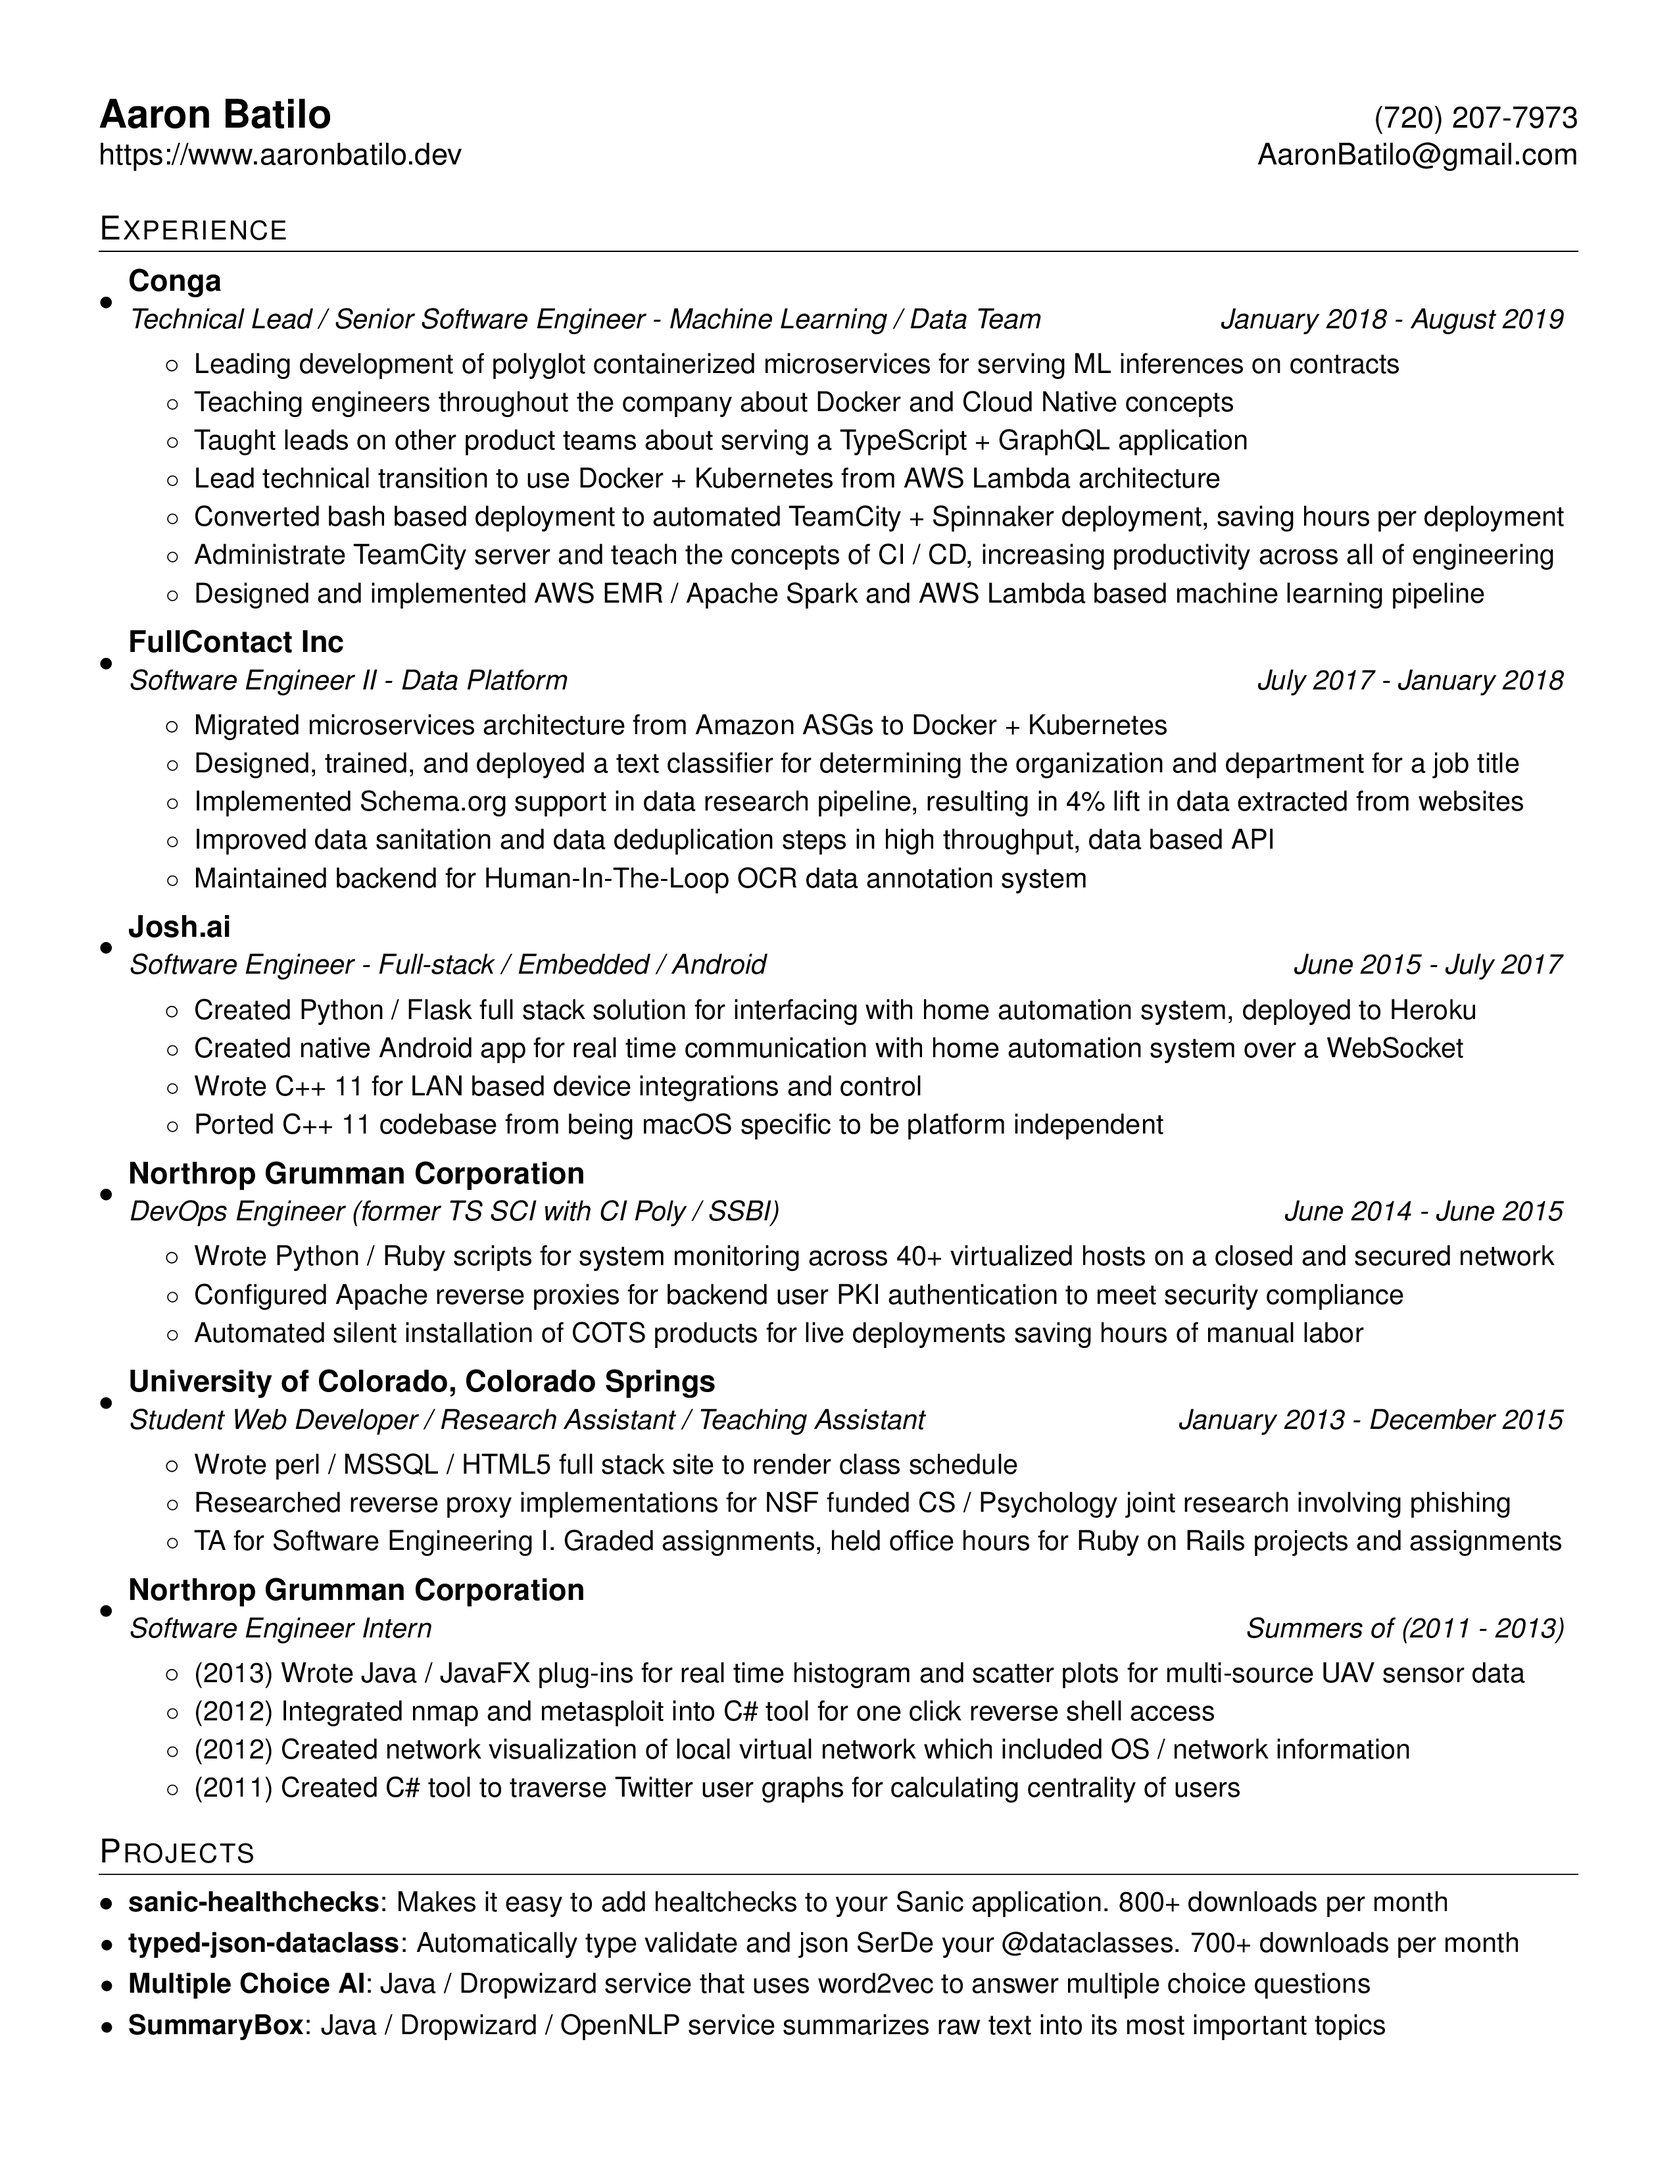
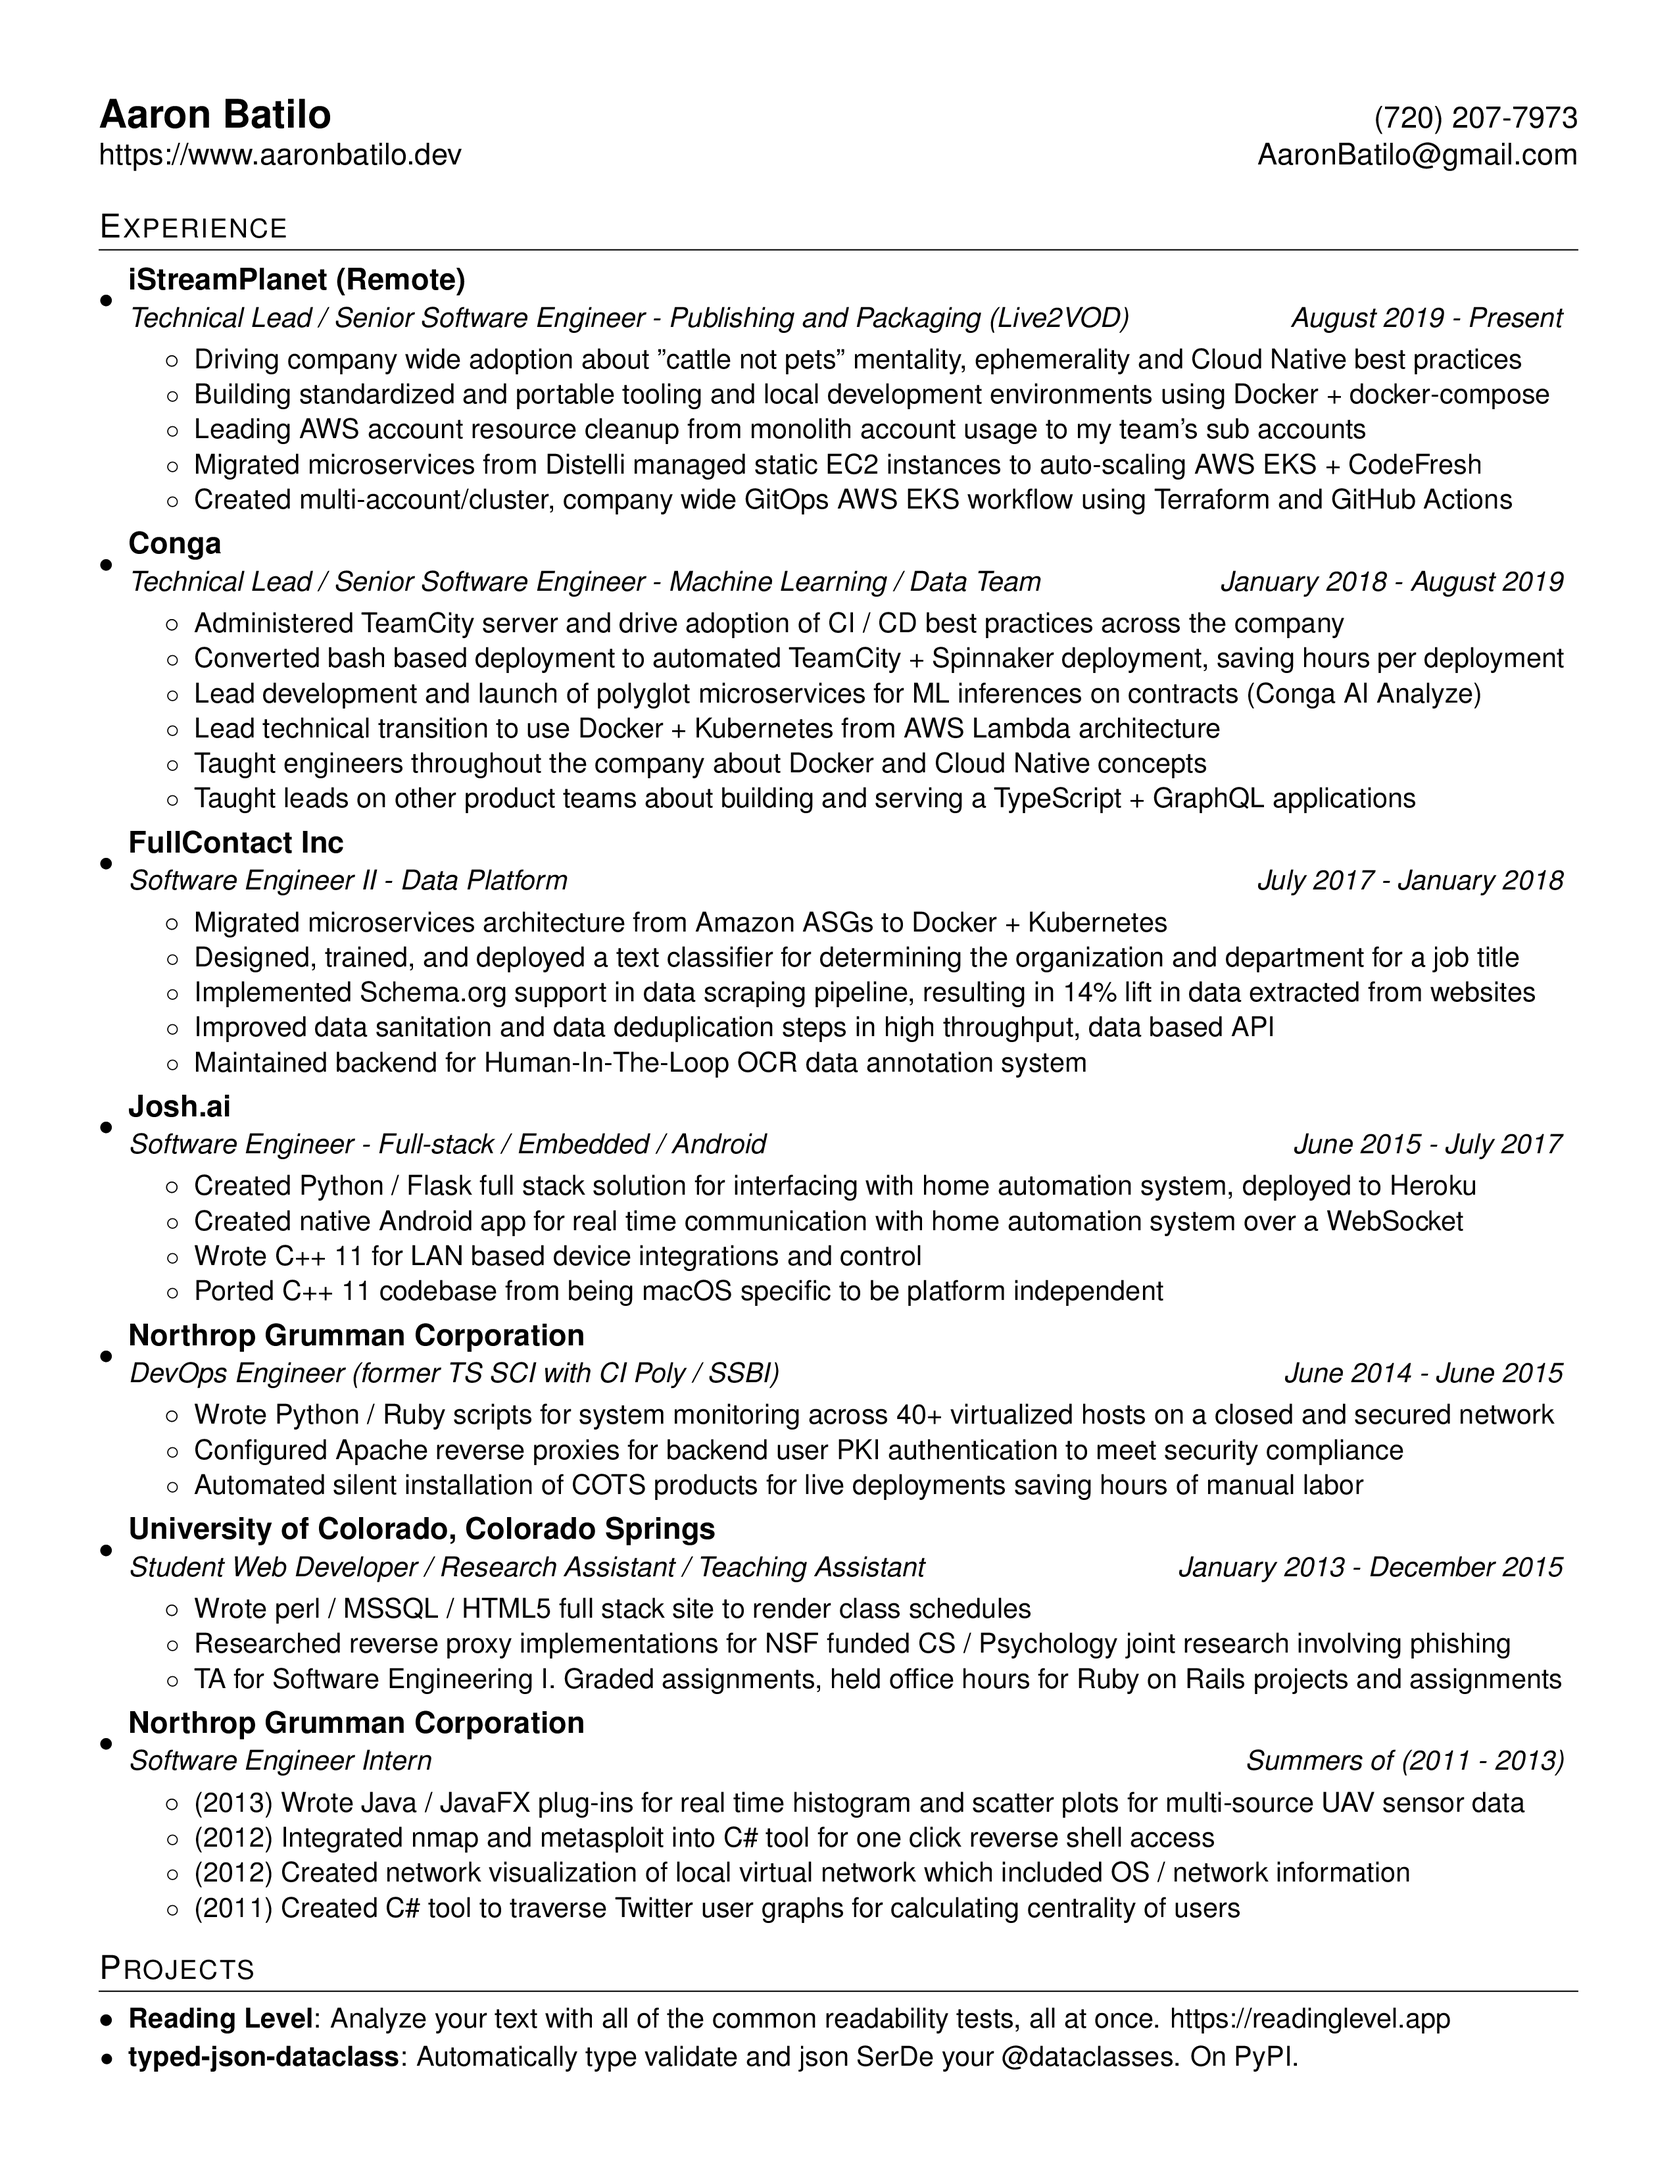
Update for Oct 2019

Changed region(s): [[0.062, 0.0936, 0.9294, 0.9676]]

diff --git a/resume.tex b/resume.tex
@@ -92,17 +92,30 @@
   \resumeSubHeadingListStart
 
     \resumeSubheading
+      {iStreamPlanet (Remote)}
+      {Technical Lead / Senior Software Engineer - Publishing and Packaging
+        (Live2VOD)}{August 2019 - Present}
+      \resumeItemListStart
+        \resumeItemNoBold {Driving company wide adoption about "cattle not pets" mentality, ephemerality and Cloud Native best practices}
+        \resumeItemNoBold {Building standardized and portable tooling and local development environments using Docker + docker-compose}
+        \resumeItemNoBold {Leading AWS account resource cleanup from monolith account
+          usage to my team's sub accounts}
+        \resumeItemNoBold {Migrated microservices from Distelli managed static EC2
+          instances to auto-scaling AWS EKS + CodeFresh}
+        \resumeItemNoBold {Created multi-account/cluster, company wide GitOps AWS EKS workflow using Terraform and GitHub Actions}
+      \resumeItemListEnd
+
+    \resumeSubheading
       {Conga}
       {Technical Lead / Senior Software Engineer - Machine Learning / Data Team}{January
         2018 - August 2019}
       \resumeItemListStart
-        \resumeItemNoBold {Leading development of polyglot containerized microservices for serving ML inferences on contracts}
-        \resumeItemNoBold {Teaching engineers throughout the company about Docker and Cloud Native concepts}
-        \resumeItemNoBold {Taught leads on other product teams about serving a TypeScript + GraphQL application}
-        \resumeItemNoBold {Lead technical transition to use Docker + Kubernetes from AWS Lambda architecture}
+        \resumeItemNoBold {Administered TeamCity server and drive adoption of CI / CD best practices across the company}
         \resumeItemNoBold {Converted bash based deployment to automated TeamCity + Spinnaker deployment, saving hours per deployment}
-        \resumeItemNoBold {Administrate TeamCity server and teach the concepts of CI / CD, increasing productivity across all of engineering}
-        \resumeItemNoBold {Designed and implemented AWS EMR / Apache Spark and AWS Lambda based machine learning pipeline}
+        \resumeItemNoBold {Lead development and launch of polyglot microservices for ML inferences on contracts (Conga AI Analyze)}
+        \resumeItemNoBold {Lead technical transition to use Docker + Kubernetes from AWS Lambda architecture}
+        \resumeItemNoBold {Taught engineers throughout the company about Docker and Cloud Native concepts}
+        \resumeItemNoBold {Taught leads on other product teams about building and serving a TypeScript + GraphQL applications}
       \resumeItemListEnd
 
     \resumeSubheading
@@ -113,7 +126,8 @@
         to Docker + Kubernetes}
         \resumeItemNoBold {Designed, trained, and deployed a text classifier for determining the
         organization and department for a job title}
-        \resumeItemNoBold {Implemented Schema.org support in data research pipeline, resulting in 4\% lift in data extracted from websites}
+        \resumeItemNoBold {Implemented Schema.org support in data scraping pipeline,
+          resulting in 14\% lift in data extracted from websites}
         \resumeItemNoBold {Improved data sanitation and data deduplication steps in high throughput, data based API}
         \resumeItemNoBold {Maintained backend for Human-In-The-Loop OCR data annotation system}
       \resumeItemListEnd
@@ -150,7 +164,7 @@
       2013 - December 2015}
       \resumeItemListStart
         \resumeItemNoBold{Wrote perl / MSSQL / HTML5 full stack site to render
-        class schedule}
+        class schedules}
         \resumeItemNoBold{Researched reverse proxy implementations for NSF
         funded CS / Psychology joint research involving phishing}
         \resumeItemNoBold{TA for Software Engineering I. Graded assignments,
@@ -174,15 +188,10 @@
 %-----------PROJECTS-----------------
 \section{Projects}
   \resumeSubHeadingListStart
-  \resumeSubItem{sanic-healthchecks}
-    {Makes it easy to add healtchecks to your Sanic application.}
-  \resumeSubItem{typed-json-dataclass}
-    {Automatically type validate and json SerDe your @dataclasses.}
-  \resumeSubItem{Multiple Choice AI}
-    {Java / Dropwizard service that uses word2vec to answer
-    multiple choice questions}
-  \resumeSubItem{SummaryBox}
-    {Java / Dropwizard / OpenNLP service summarizes raw text into its most
-    important topics}
+  \resumeSubItem{\href{https://www.readinglevel.app}{Reading Level}}
+    {Analyze your text with all of the common readability tests, all at once.
+      \href{https://www.readinglevel.app}{https://readinglevel.app}}
+  \resumeSubItem{\href{https://pypi.org/project/typed-json-dataclass/1.2.1/}{typed-json-dataclass}}
+    {Automatically type validate and json SerDe your @dataclasses. On PyPI.}
   \resumeSubHeadingListEnd
 \end{document}
